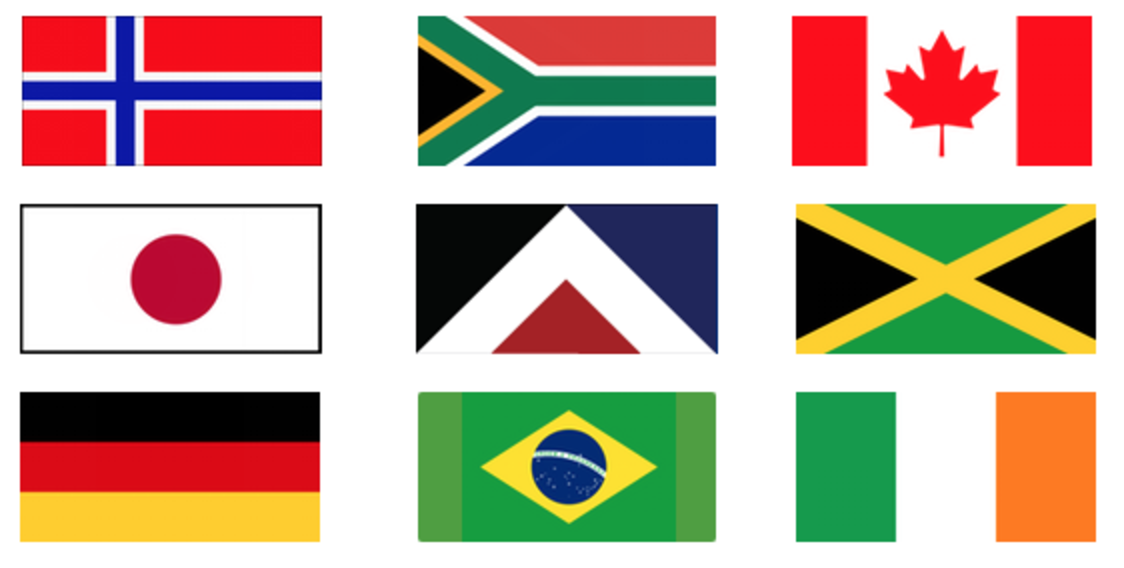
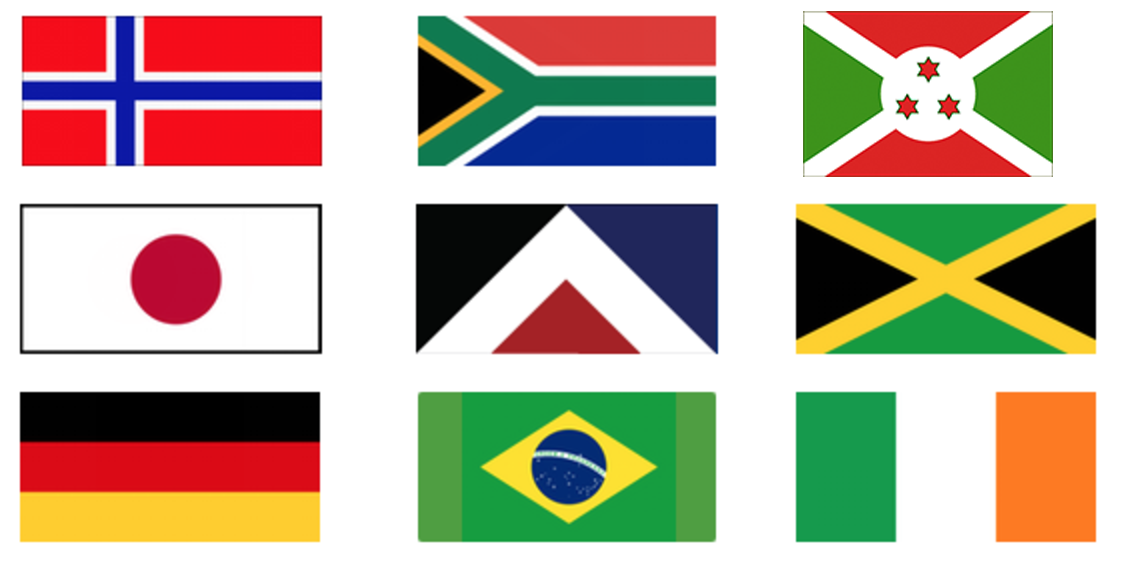
1.3.7 fixes
Replace the impossible-to-draw Canadian flag with the Burundi flag
(which has stars as well as polygons).
Also, add a TIF about the general theory of stars.

Changed region(s): [[0.6851, 0.0, 0.9964, 0.3292]]

diff --git a/cur/programming/1-introduction/3-drawing/7-graphics-and-art.html b/cur/programming/1-introduction/3-drawing/7-graphics-and-art.html
@@ -69,6 +69,16 @@
                     <br />
                     Note: This script will only create stars with an odd number points. (Why?)
                 </li>
+                <li>There are actually two kinds of seven-pointed stars:
+                <img class="imageRight" src="/bjc-r/img/icons/tough-stuff-mini.png" alt="Tough Stuff" title="Tough Stuff" />
+                <img src="/bjc-r/img/1-introduction/7-stars.png" height="153" alt="seven-pointed stars">
+                <ol type="a">
+                <li>Figure out how to change your <code>star</code> block so that it can draw either kind.  (You'll have to add another input.)</li>
+                <li>Is there a third kind of seven-pointed star?  Why or why not?  Discuss this with your partner and maybe with another pair.</li>
+                <li>How many kinds of nine-pointed stars can you make?  Draw them all with your <code>star</code> block.</li>
+                <li>How many kinds of six-pointed stars are there?  Draw a six-pointed star by hand, then try it with your <code>stars</code> block.  Explain the results.</li>
+                <li>How many kinds of eight-pointed stars can you make?</li>
+                <li>Work with your partner to come up with a general theory of stars, so you could predict how many kinds of 98-pointed stars you can make without trying them all.</li></ol></li>
             </ol>
         </div>
         
